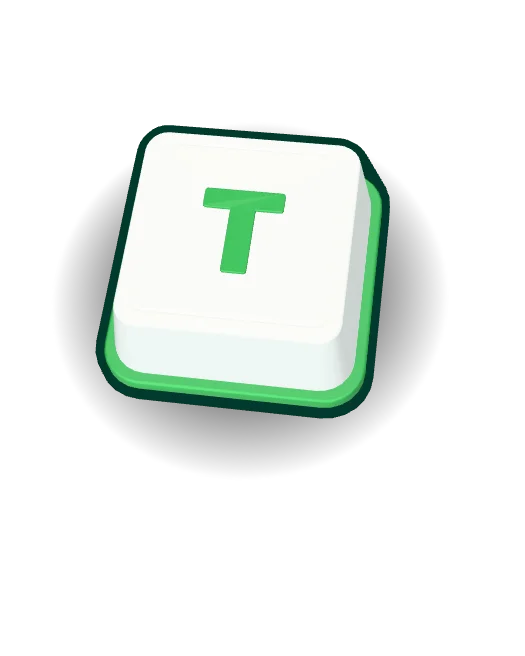
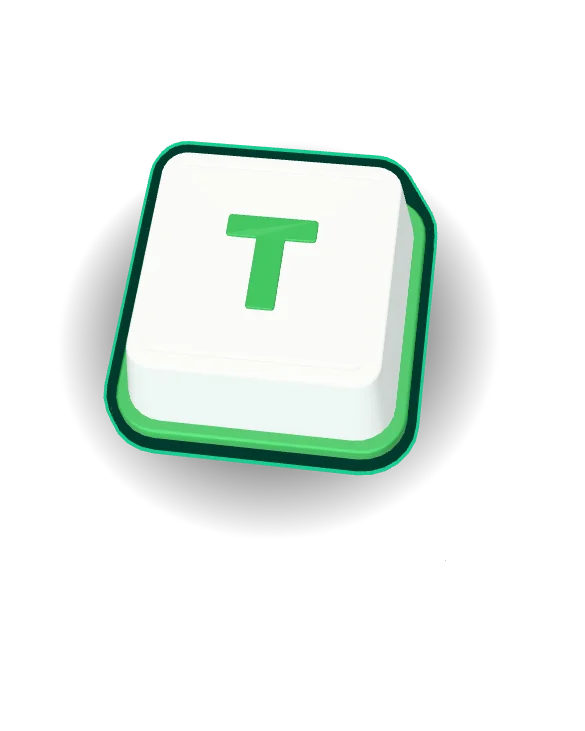
hero: soft edges, and a keyline for the dark theme
Where the 3D ran past its box, keys were sliced by straight lines that
read as a mistake: at a phone's gutters and along the bottom of its box,
and at the desktop bleed's edges while the keys rise.

- On a phone the picture now runs to the screen's edges, across the
  gutters, still 4:5 and centred on the box.
- Every edge of the picture fades out over 7% with a CSS mask, so keys
  dissolve into the page. The posters sit in the same stage and fade too.

In the dark theme the logo key's #184034 outline disappeared against the
ground. There, and only there, a thin #34D399 keyline sits just outside
it: a second back-face shell a third as thick as the outline, solid, with
no blur. It follows the key from every angle, through the press and in the
keyboard, and shares the outline's shader, so switching theme compiles
nothing. Light mode and the logo everywhere else are unchanged.

Posters recaptured: the phone ones are now screen-wide, and the dark ones
carry the keyline.

Changed region(s): [[0.1524, 0.1829, 0.7619, 0.6707], [0.3657, 0.2744, 0.5486, 0.3354], [0.3962, 0.3659, 0.4876, 0.4268]]

diff --git a/src/motion/hero-key/scene.ts b/src/motion/hero-key/scene.ts
@@ -188,7 +188,12 @@ export async function createHeroKeyScene(
   // The body, the underside and the T share one shader: every shader is
   // compiled on the phone, and each one costs start-up time.
   const logo = new Group()
-  const outline = new Mesh(logoOutline(), new MeshBasicMaterial({ color: LOGO.outline, side: BackSide }))
+  const outline = new Mesh(logoOutline(LOGO_KEY.outline), new MeshBasicMaterial({ color: LOGO.outline, side: BackSide }))
+  // Behind the outline and a little larger, so only a thin rim of it shows.
+  const keyline = new Mesh(
+    logoOutline(LOGO_KEY.outline + LOGO_KEY.keyline),
+    new MeshBasicMaterial({ color: LOGO.keyline, side: BackSide })
+  )
   const underside = new Mesh(
     plain(logoUnderside()),
     new MeshStandardMaterial({ vertexColors: true, color: LOGO.underside, roughness: 0.55 })
@@ -209,7 +214,7 @@ export async function createHeroKeyScene(
   const tMaterial = new MeshStandardMaterial({ vertexColors: true, color: LOGO.t, roughness: 0.42 })
   const t = new Mesh(plain(logoT()), tMaterial)
   facePivot.add(face, t)
-  logo.add(outline, underside, body, facePivot)
+  logo.add(keyline, outline, underside, body, facePivot)
   scene.add(logo)
 
   // Given the environment directly rather than through the scene, so their
@@ -315,6 +320,10 @@ export async function createHeroKeyScene(
     }
     paint(keyGeometry, [colors.edge, colors.border, facePaint(PLAIN.top)])
     paint(spaceGeometry, [colors.edge, colors.border, facePaint(PLAIN.top + (SPACE.width - 1) / 2)])
+
+    // On the dark ground the logo's dark outline disappears; a thin green
+    // keyline outside it keeps the key's edge.
+    keyline.visible = colors.dark
 
     // Light softens in the dark; the logo key keeps the logo's own white.
     keyLight.intensity = colors.dark ? 0.85 : 1.4

diff --git a/src/index.css b/src/index.css
@@ -1145,10 +1145,30 @@ html, body {
 
 .tt-hero-float { position: absolute; inset: 0; }
 
-/* From md up the picture bleeds 10% past the box on every side, so the
-   keyboard has room. The ground clips anything that reaches the page edge. */
-.tt-hero-stage { position: absolute; inset: 0; pointer-events: none; }
-@media (min-width: 768px) { .tt-hero-stage { inset: -10%; } }
+/* The picture is bigger than its box, so keys running out of frame are not
+   sliced at the box's edge. On a phone it runs to the screen's edges, across
+   the gutters, still 4:5 and centred on the box; from md up it bleeds 10%
+   past the box on every side. Every edge then fades out over a short
+   distance, so a key dissolves into the page instead of being cut. The fade
+   covers the poster too, since both sit in the stage. */
+.tt-hero-stage {
+  position: absolute;
+  left: calc(50% - 50vw); width: 100vw;
+  top: calc(50% - 62.5vw); height: 125vw;
+  pointer-events: none;
+  --tt-hero-fade: 7%;
+  -webkit-mask-image:
+    linear-gradient(to right, transparent, #000 var(--tt-hero-fade), #000 calc(100% - var(--tt-hero-fade)), transparent),
+    linear-gradient(to bottom, transparent, #000 var(--tt-hero-fade), #000 calc(100% - var(--tt-hero-fade)), transparent);
+  -webkit-mask-composite: source-in;
+  mask-image:
+    linear-gradient(to right, transparent, #000 var(--tt-hero-fade), #000 calc(100% - var(--tt-hero-fade)), transparent),
+    linear-gradient(to bottom, transparent, #000 var(--tt-hero-fade), #000 calc(100% - var(--tt-hero-fade)), transparent);
+  mask-composite: intersect;
+}
+@media (min-width: 768px) {
+  .tt-hero-stage { inset: -10%; width: auto; height: auto; }
+}
 
 .tt-hero-poster,
 .tt-hero-canvas {

diff --git a/src/motion/hero-key/geometry.ts b/src/motion/hero-key/geometry.ts
@@ -169,6 +169,8 @@ export const LOGO_KEY = {
   /** The face at rest, flush with the rim and just inside its opening. */
   face: { half: 0.346, top: 0.334, radius: 0.045, dish: 0.016, thickness: 0.04 },
   outline: 0.03,
+  /** Dark theme only: a thin green line just outside the outline, a third its width. */
+  keyline: 0.01,
 } as const
 
 export const LOGO_TONE = { wall: 0, rim: 1, well: 2 } as const
@@ -211,12 +213,11 @@ export function logoUnderside(): BufferGeometry {
 }
 
 /**
- * A shell a little larger than the underside and body together, drawn from
- * the inside only. What shows is a rim around the silhouette from any angle:
- * the logo's thick dark outline.
+ * A shell `t` larger than the underside and body together, drawn from the
+ * inside only. What shows is a rim around the silhouette from any angle: the
+ * logo's thick dark outline, and in the dark theme the keyline outside it.
  */
-export function logoOutline(): BufferGeometry {
-  const t = LOGO_KEY.outline
+export function logoOutline(t: number): BufferGeometry {
   const { underside, half, height } = LOGO_KEY
   const top = underside.height + height
   return sweep([

diff --git a/src/motion/hero-key/constants.ts b/src/motion/hero-key/constants.ts
@@ -30,6 +30,8 @@ export const LOGO = {
   /** The sloped frame the face sinks into, seen in logopress.png. */
   well: '#D3D8D6',
   outline: '#184034',
+  /** Dark theme only, outside the outline: the dark ground swallows #184034. */
+  keyline: '#34D399',
   underside: '#2A803F',
 } as const
 
